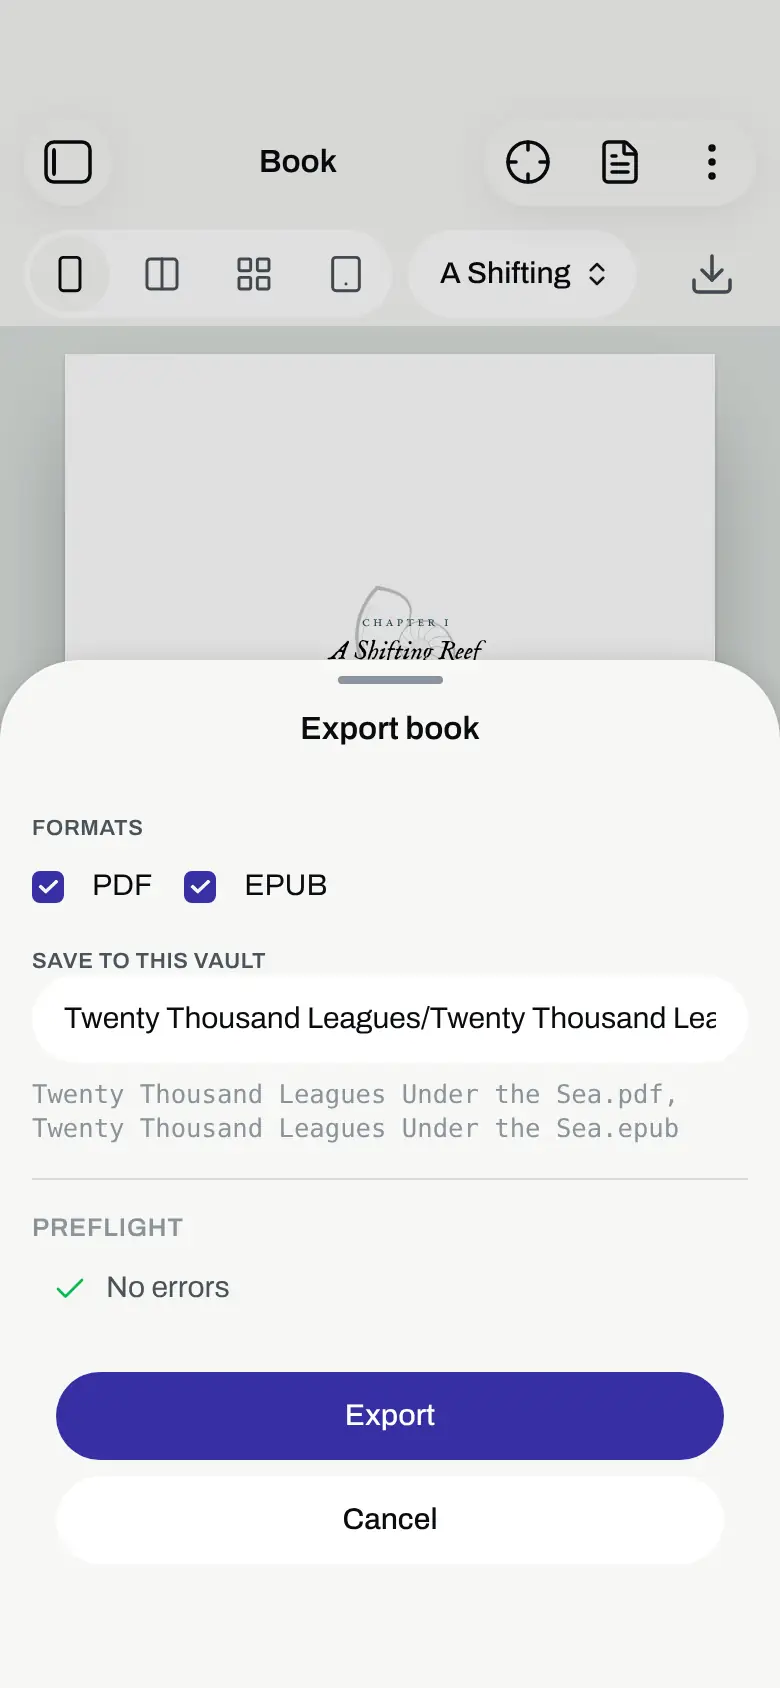
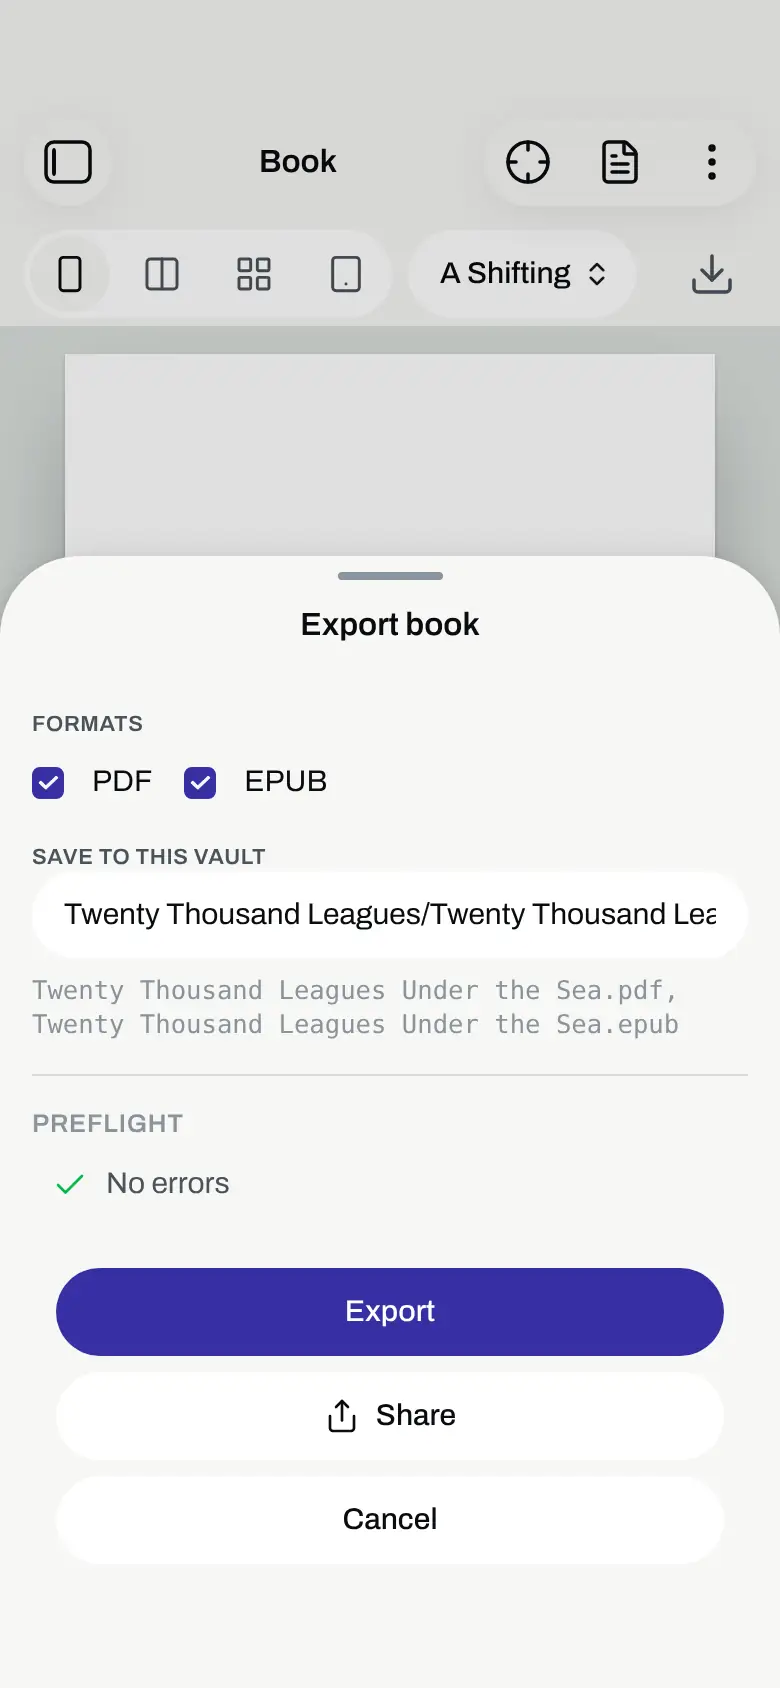
Show Share in the export dialog of the phone and tablet reels (#354)

diff --git a/e2e-tests/reel/tablet.spec.ts b/e2e-tests/reel/tablet.spec.ts
@@ -88,9 +88,13 @@ test("the tablet's frames are Obsidian's tablet layout on the sample book", asyn
 
   // Export, from the action in the preview's own bar.
   const exporting = new Export(obsidian);
+  // A real device can share a file, so its dialog has Share. The
+  // emulation cannot, so the take stands in for the share sheet.
+  await exporting.sharing();
   await book.exportIn.click();
   await exporting.reaches("ready");
-  await reel.frame("dialog", { dialog: exporting.dialog, write: exporting.write });
+  await expect(exporting.share).toBeEnabled();
+  await reel.frame("dialog", { dialog: exporting.dialog, write: exporting.write, share: exporting.share });
   await exporting.write.click();
   await exporting.reaches("written");
   await reel.frame("written", { dialog: exporting.dialog, done: exporting.done });

diff --git a/e2e-tests/reel/phone.spec.ts b/e2e-tests/reel/phone.spec.ts
@@ -64,11 +64,15 @@ test("the phone's frames are Obsidian's phone layout on the sample book", async 
 
   // Export is a sheet that rises from the foot of the screen.
   const exporting = new Export(obsidian);
+  // A real device can share a file, so its dialog has Share. The
+  // emulation cannot, so the take stands in for the share sheet.
+  await exporting.sharing();
   await book.exportIn.click();
   await exporting.reaches("ready");
+  await expect(exporting.share).toBeEnabled();
   await reel.frame(
     "sheet",
-    { sheet: exporting.dialog, write: exporting.write },
+    { sheet: exporting.dialog, write: exporting.write, share: exporting.share },
     { shade: obsidian.backdrop("orca-export") },
   );
   await exporting.write.click();
